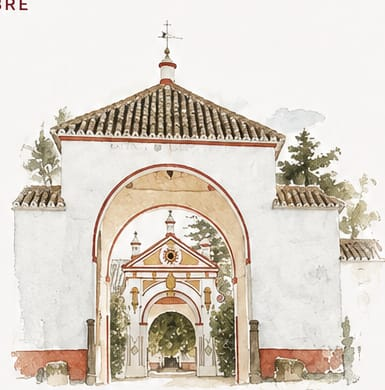
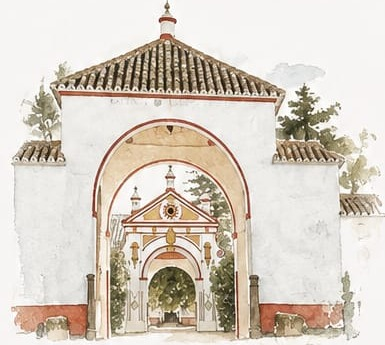
fix: recorta el cielo sobrante de la acuarela de Torrequemada y ajusta el placeholder de alergias
La imagen de Torrequemada tenía mucho más margen vacío (cielo) por encima
del edificio que la de Santa Cruz, así que aunque las dos cajas medían lo
mismo, el arco quedaba visualmente más pequeño y desplazado hacia abajo
dentro de su marco. Se recorta ese margen para que ambas ilustraciones
llenen su encuadre de forma similar y "Ceremonia"/"Celebración" queden
alineados de verdad.

El placeholder de alergias ya no sugiere "dieta vegetariana" (no es una
alergia) y en su lugar pone ejemplos médicos reales.

Claude-Session: https://claude.ai/code/session_011Xv22boNUy41VnNijVoSus

diff --git a/public/index.html b/public/index.html
@@ -550,7 +550,7 @@
 
           <div class="field">
             <label for="alergias">Tus alergias o restricciones alimenticias</label>
-            <textarea id="alergias" name="alergias" placeholder="Ej: alergia a frutos secos, dieta vegetariana, sin gluten..."></textarea>
+            <textarea id="alergias" name="alergias" placeholder="Ej: alergia a frutos secos, intolerancia al gluten, diabetes..."></textarea>
           </div>
 
           <fieldset style="margin-top:8px; margin-bottom:0;">
@@ -598,7 +598,7 @@
               </div>
               <div class="field">
                 <label for="acompananteAlergias">Alergias o restricciones del acompañante</label>
-                <textarea id="acompananteAlergias" name="acompananteAlergias" placeholder="Ej: alergia a frutos secos, dieta vegetariana, sin gluten..."></textarea>
+                <textarea id="acompananteAlergias" name="acompananteAlergias" placeholder="Ej: alergia a frutos secos, intolerancia al gluten, diabetes..."></textarea>
               </div>
             </div>
           </fieldset>
